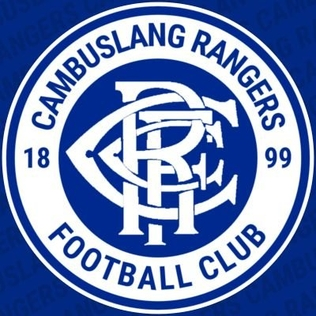
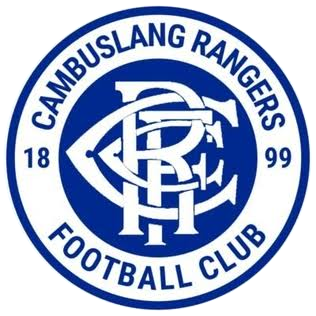
feat: Cambuslang cut clean by the editor's own hand, Petershill join
The user's question about the Cambuslang badge caught a real blemish:
the only fetchable source was a ripped Twitter avatar that shipped as
an opaque navy square among properly cut-out badges. They replaced the
file themselves — the collaboration's first user-committed asset,
transparent corners verified — and attached the remaining four.

Petershill's proper crest landed from their Wikipedia page (the famous
Glasgow junior club has one; the newer and smaller clubs don't).
Thirteen of sixteen First Division badges now ship. Maybole, Gartcairn
and Thorn Athletic have no fetchable source anywhere — commented map
lines await their file drops, a path the editor has now proven.

803 tests.

diff --git a/src/data/crests.js b/src/data/crests.js
@@ -27,8 +27,10 @@ const WOSFL_CRESTS = {
   394088753: '/crests/wosfl/394088753.png', // Whitletts Victoria
   991683293: '/crests/wosfl/991683293.png', // Cambuslang Rangers
   168281523: '/crests/wosfl/168281523.png', // Neilston — the Farmer's Boys
+  814140867: '/crests/wosfl/814140867.png', // Petershill
   // Awaiting files (drop the PNG in, uncomment the line):
   // 451833712: '/crests/wosfl/451833712.png', // Gartcairn
+  // 753004191: '/crests/wosfl/753004191.png', // Maybole Juniors
   // 914146622: '/crests/wosfl/914146622.png', // Thorn Athletic
 };
 
